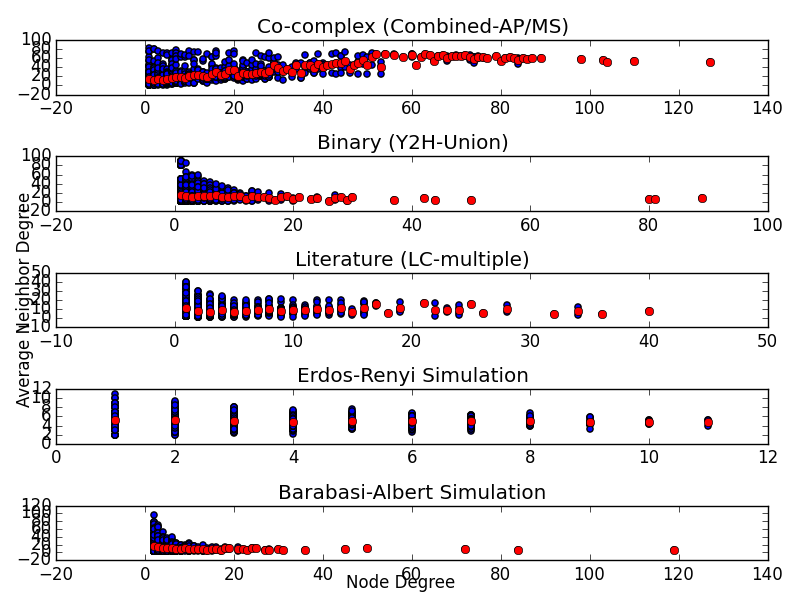
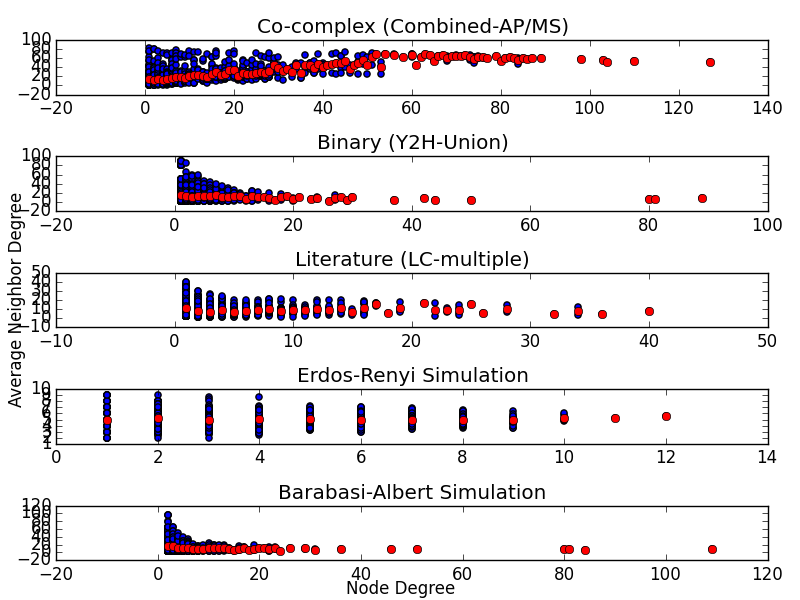
more tweaks

diff --git a/hw2.py b/hw2.py
@@ -428,31 +428,11 @@ def plot_AND_dataset(prefix, data_ls, avg_ls, title_ls=None):
         i += 1
     
     fig.tight_layout()
-    fig.text(0.5,0.02,'Node Degree',ha='center')
-    fig.text(0.02,0.5,'Average Neighbor Degree',va='center', rotation='vertical')
+    fig.text(0.5,0.01,'Node Degree',ha='center')
+    fig.text(0.01,0.5,'Average Neighbor Degree',va='center', rotation='vertical')
 
     fig.savefig(prefix+'.png')
     return
-    
-    '''
-    for i in range(1,len(data_ls)):
-        x = list(range(1,len(data_ls[i])))
-        y = data_ls[i][1:]
-        plt.subplot(i,1,i)
-        for xe,ye in zip(x,y):
-            plt.scatter([xe] * len(ye), ye)
-        plt.xlabel('Node Degree')
-        plt.ylabel('Average Neighbor Degree')
-        avg_x = list(range(1,len(avg_ls[i])))
-        avg_y = avg_ls[i][1:]
-        plt.plot(avg_x,avg_y,'or')
-        red_patch = mpatches.Patch(color='red', label='Average AND for each x value')
-        blue_patch = mpatches.Patch(color='blue', label='AND for each node')
-        plt.legend(handles=[red_patch,blue_patch])
-    plt.savefig(prefix+'.png')
-    return
-    '''
-
     
 
 
